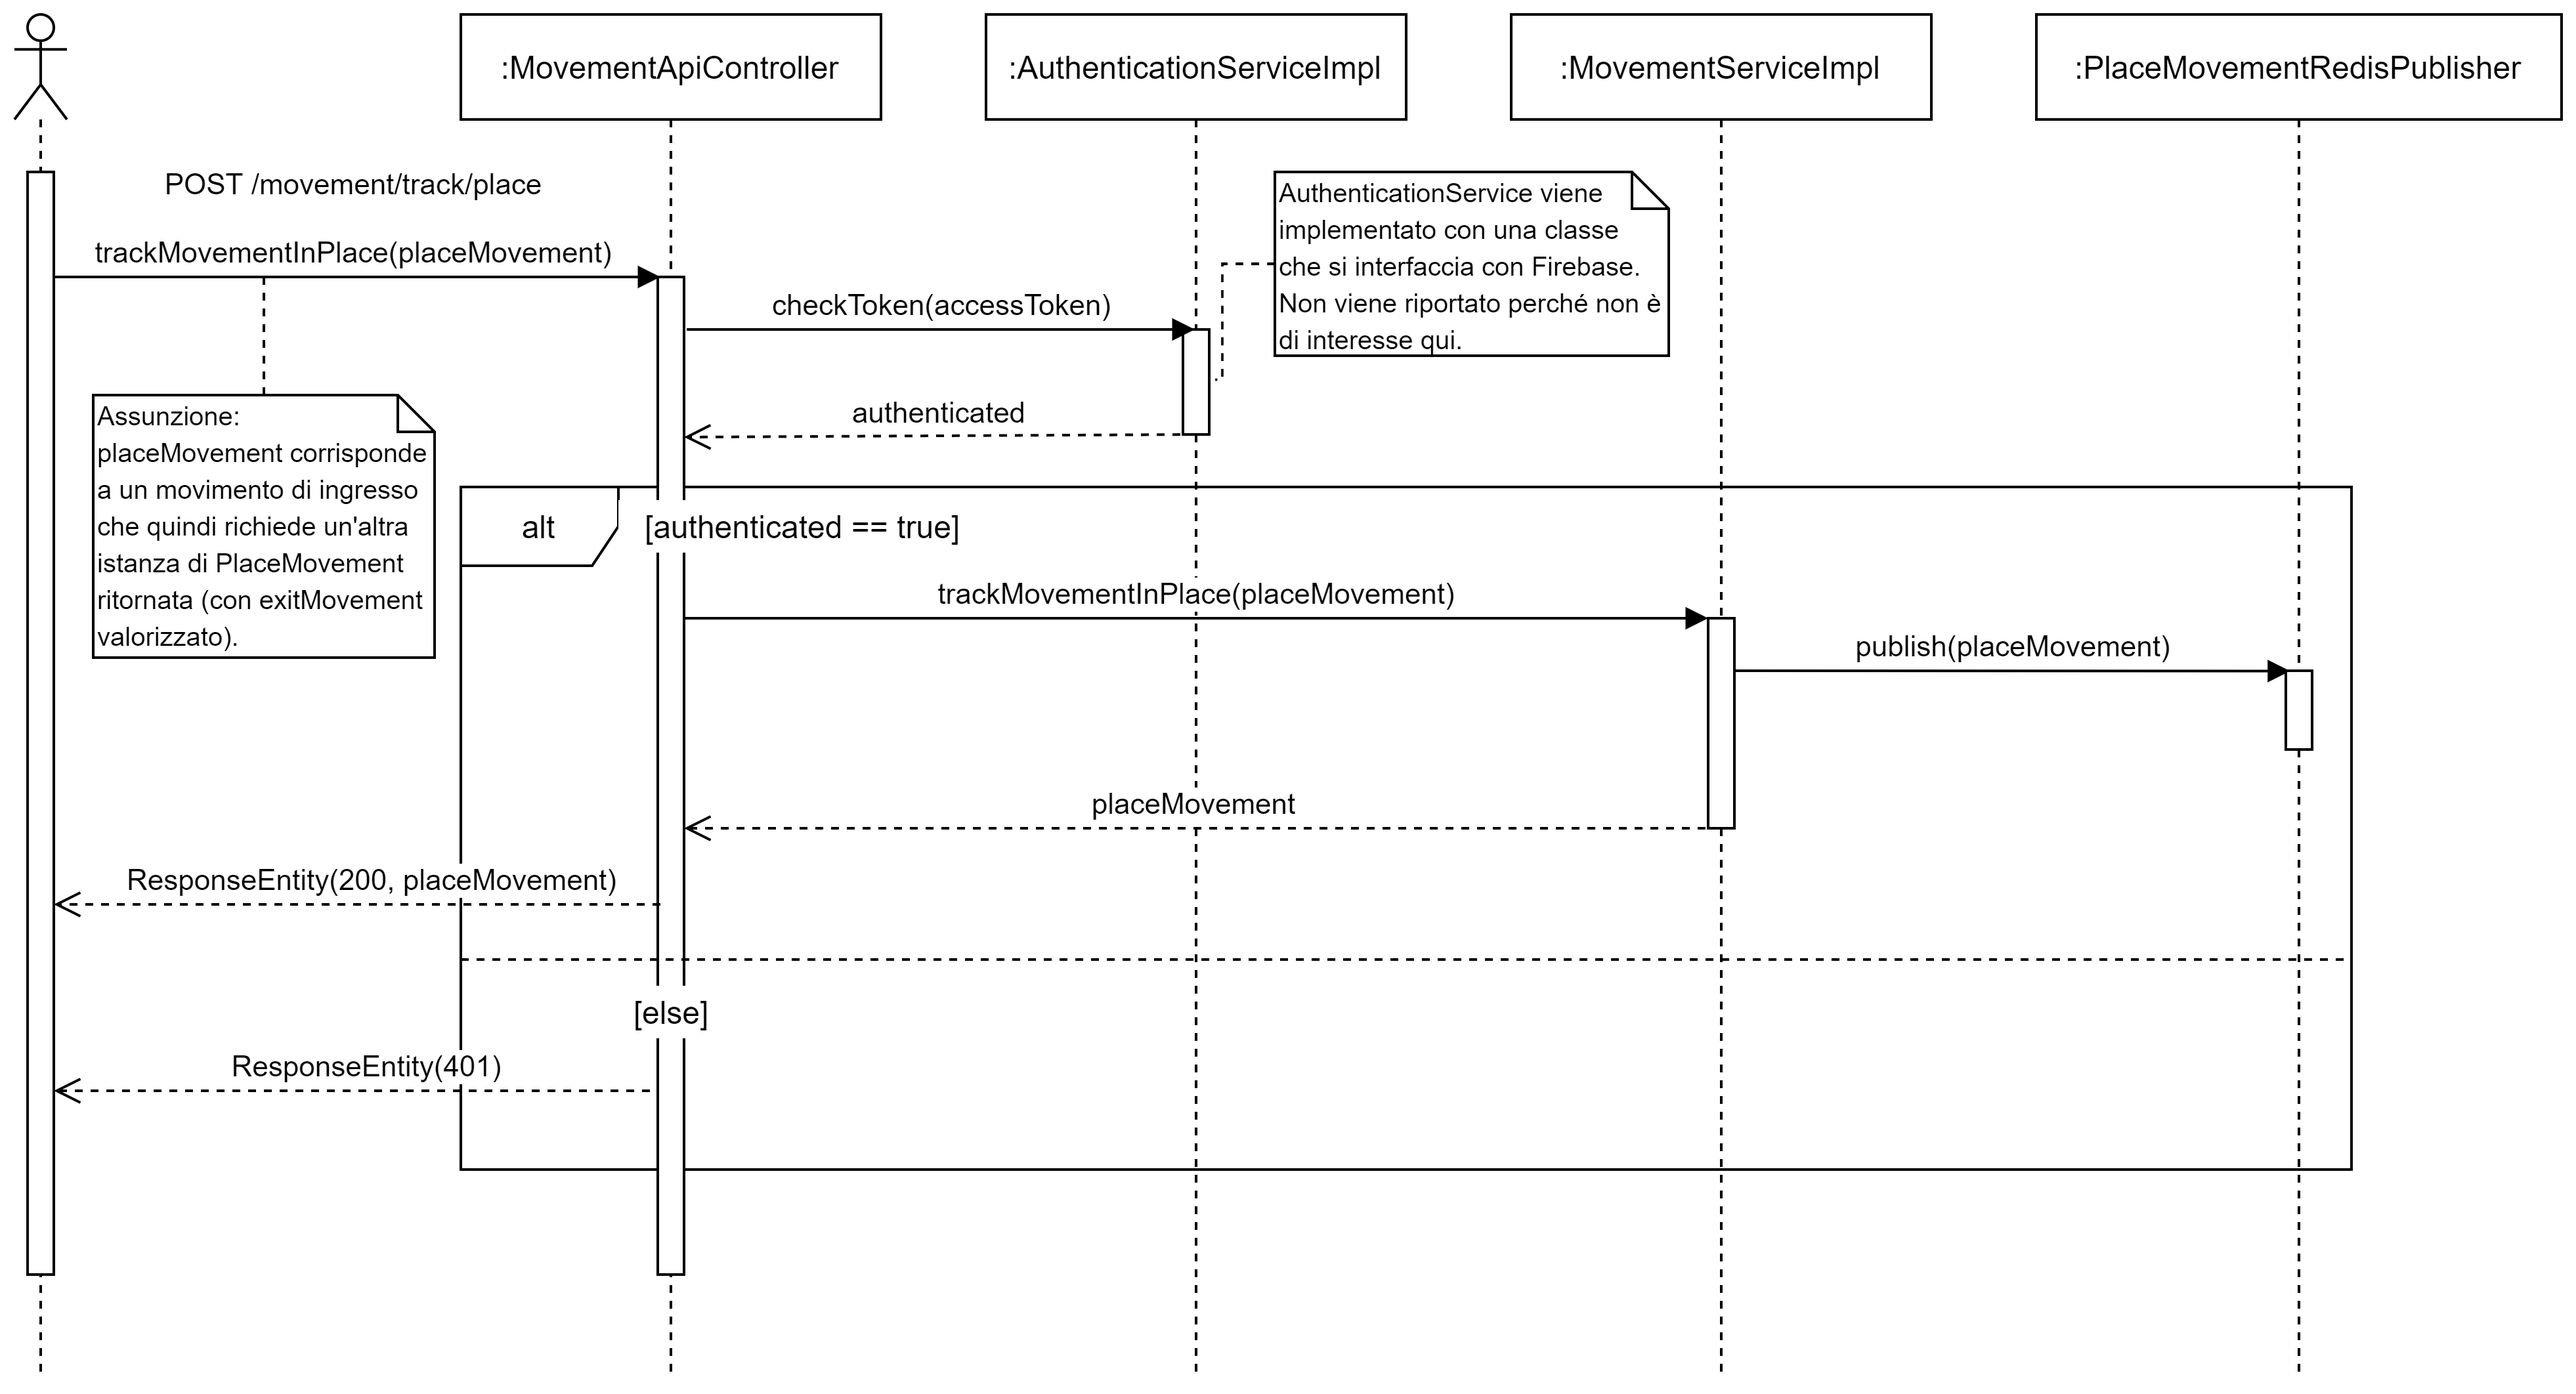
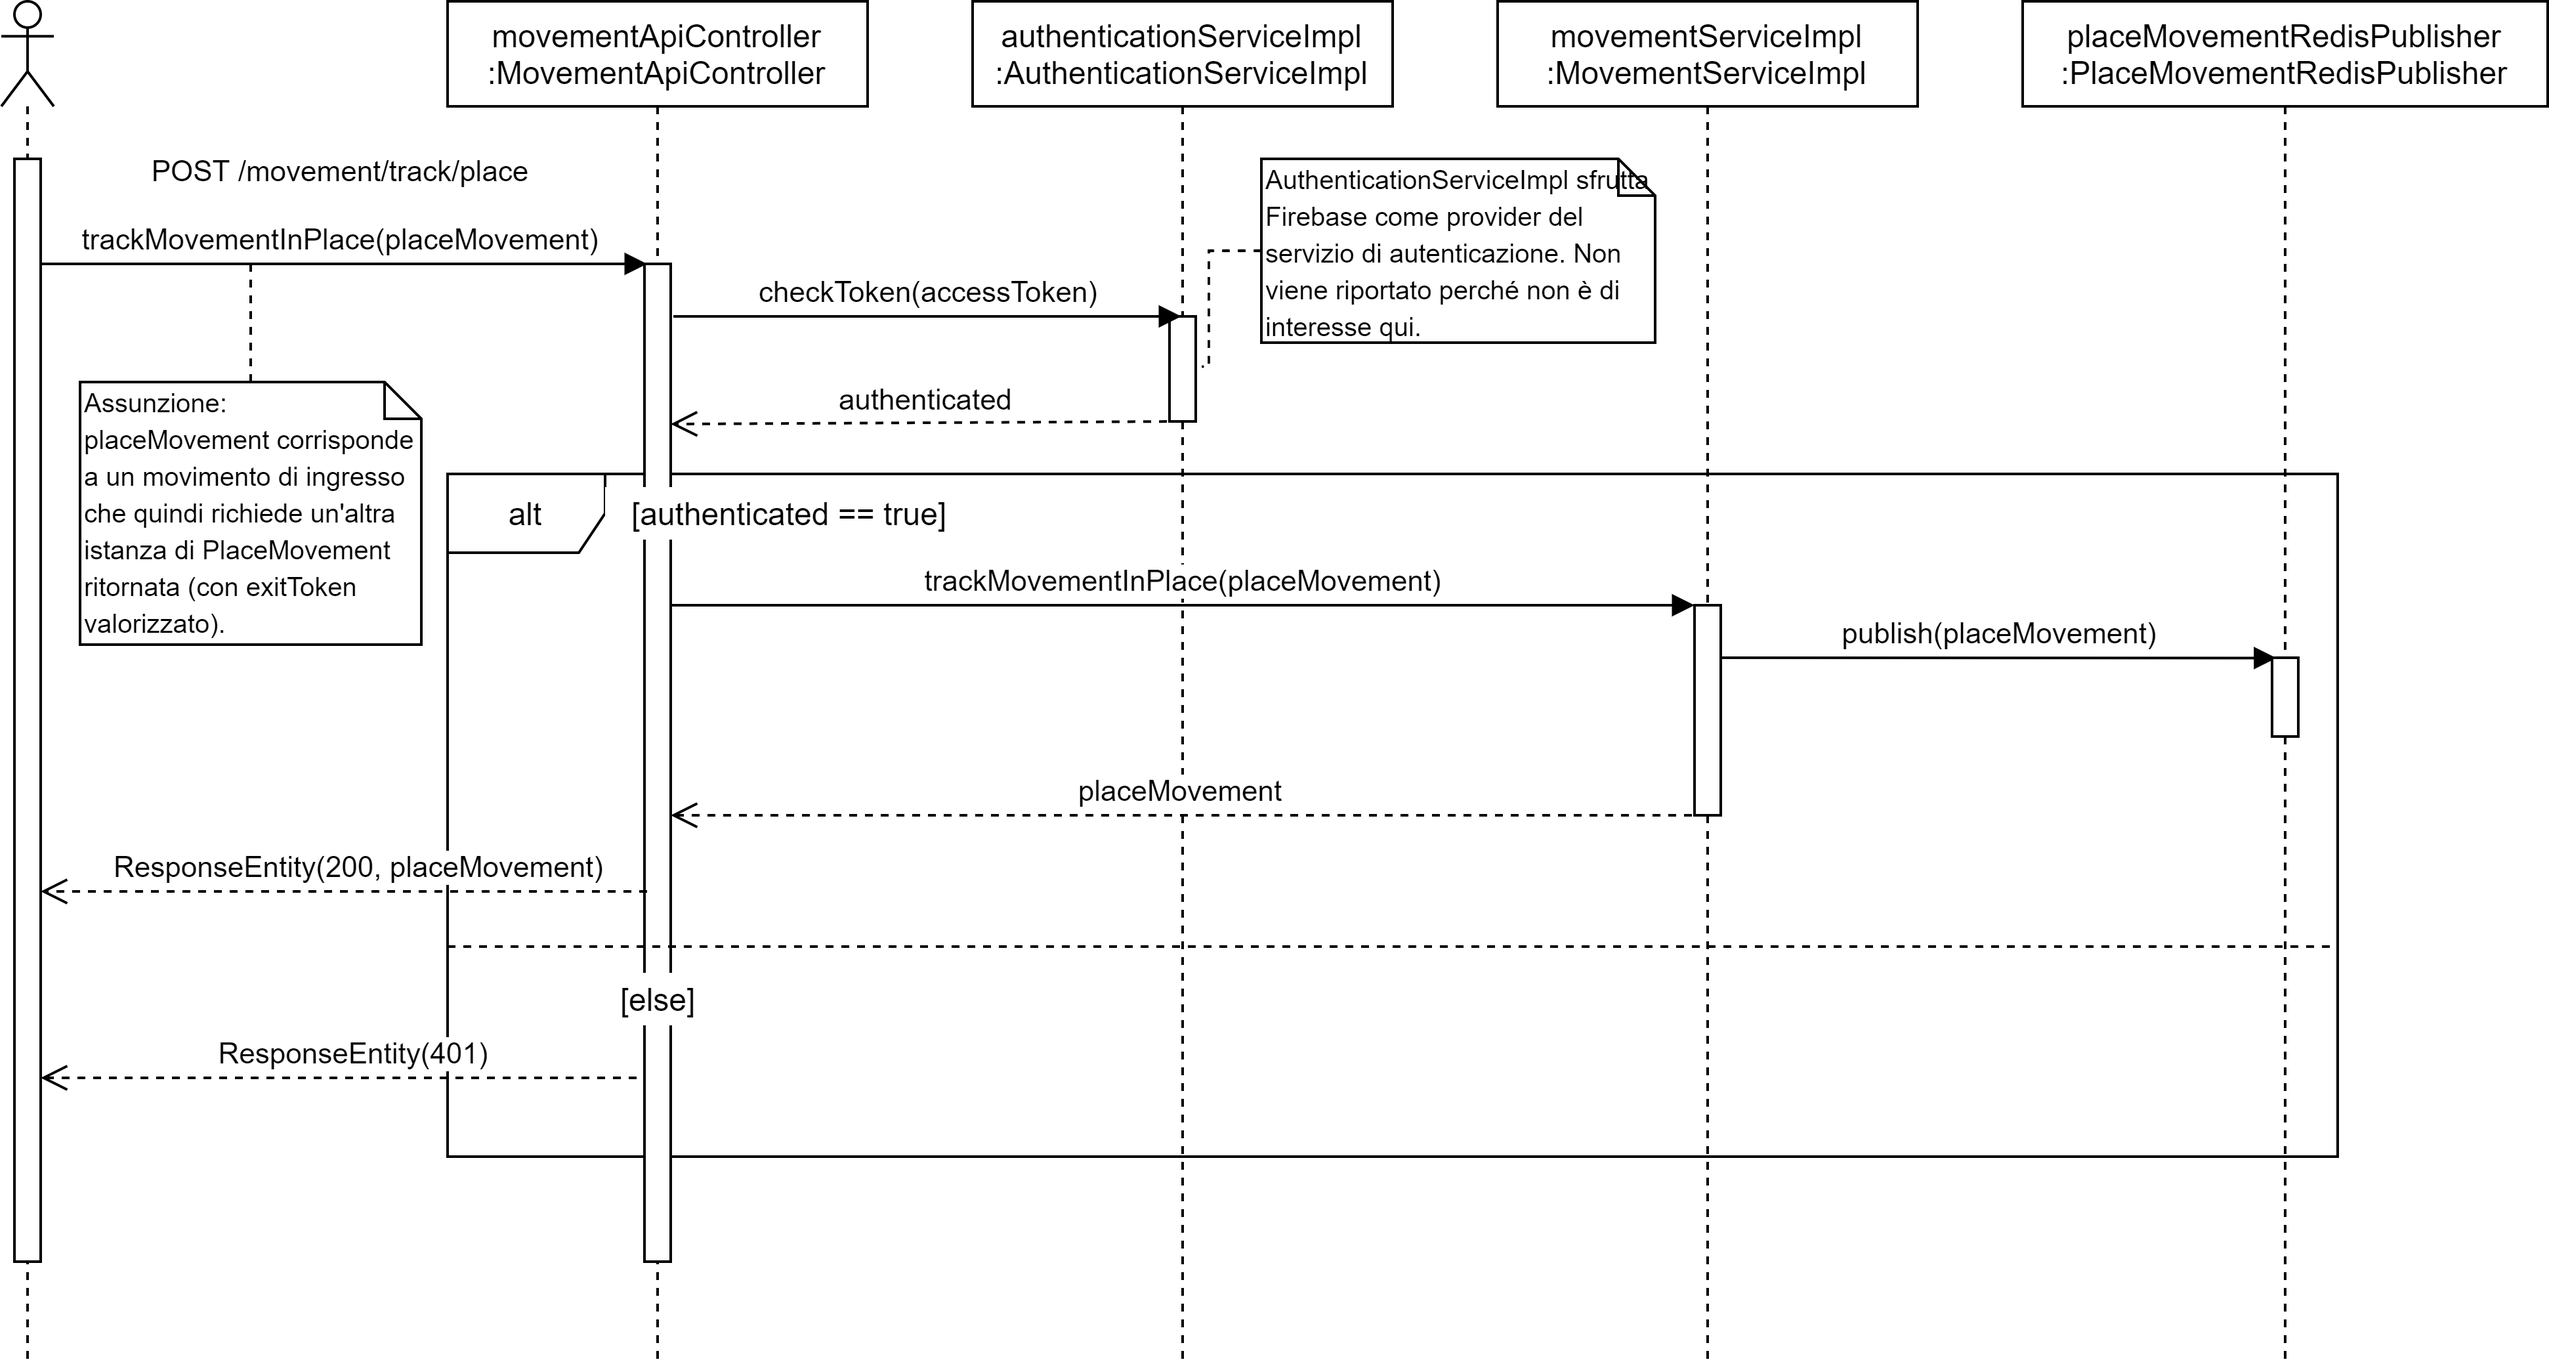
Aggiornato testo diagramma sequenza backend e immagine

diff --git a/DocumentazioneEsterna/ManualeSviluppatore/docs/backend/sequenza.md b/DocumentazioneEsterna/ManualeSviluppatore/docs/backend/sequenza.md
@@ -4,5 +4,5 @@ Vengono presentati qui di seguito i diagrammi UML di sequenza relativi al backen
 ## 4.7.1 POST /movement/track/place
 ![!diagramma di sequenza della ricezione di un movimento](/Immagini/Backend/Sequenza/tracciamento-sequenza.png)
 
-Questo diagramma di sequenza rappresenta il comportamento del Backend quando si effettua una richiesta */movement/track/place*.  
-Come si può vedere viene restituita una **unauthorized** nel caso in cui l'utente che ha effettuato la richiesta non sia autenticato su Firebase.
+Questo diagramma di sequenza rappresenta il comportamento del backend quando si effettua una richiesta HTTP POST */movement/track/place*.  
+Come si può vedere viene restituita uno stato HTTP 401 **Unauthorized** nel caso in cui l'utente che ha effettuato la richiesta non sia autenticato su Firebase o ha fornito un access token non valido.
